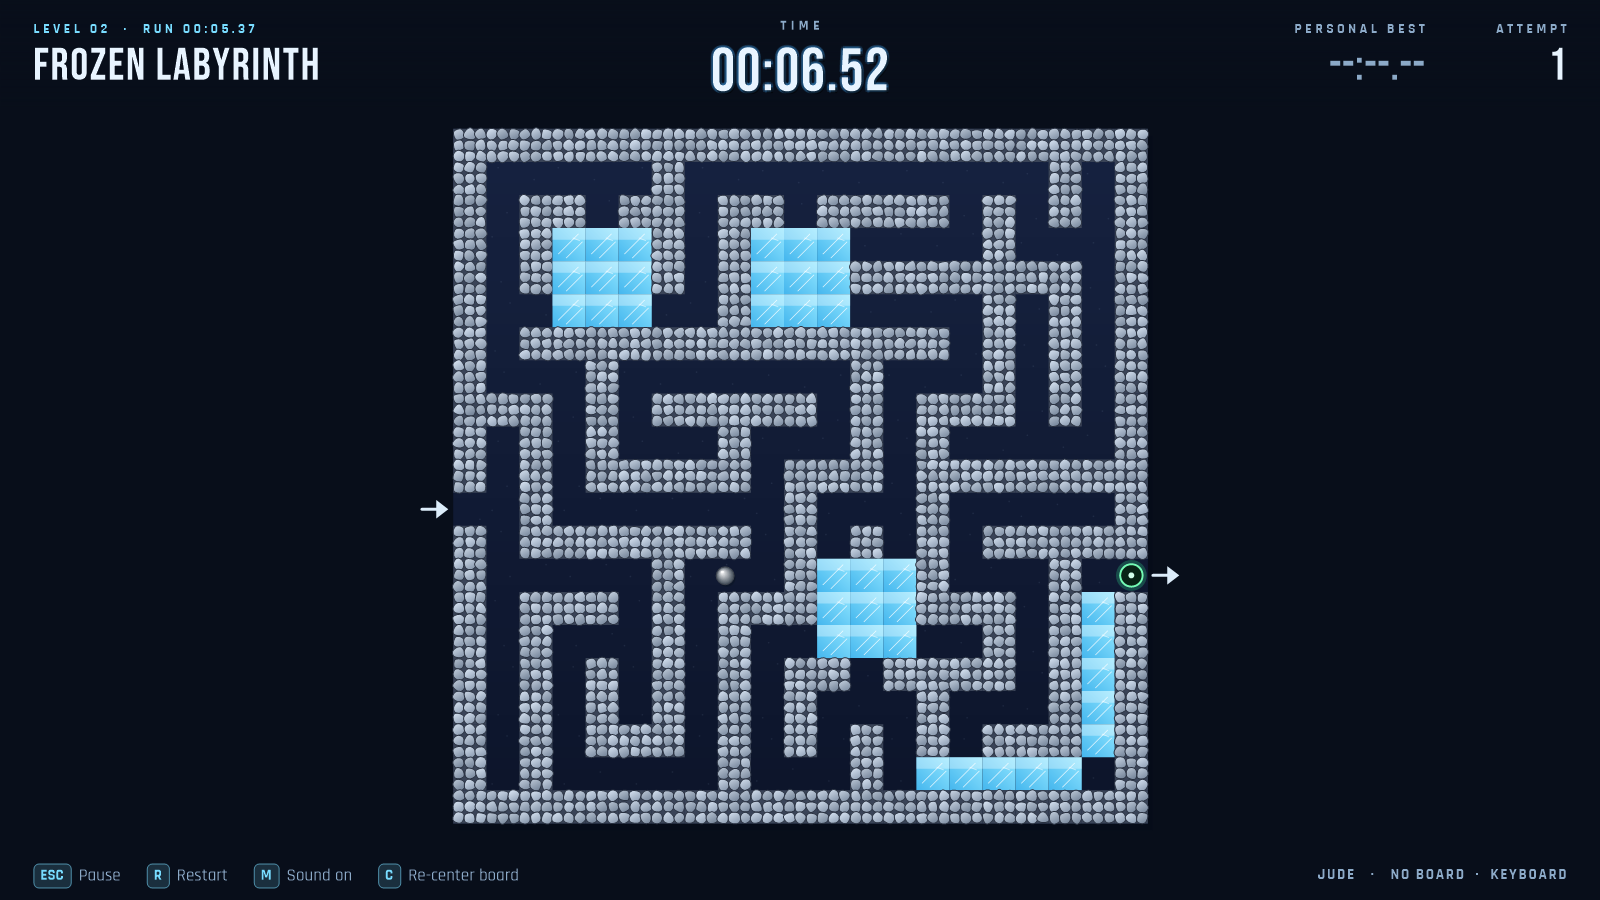
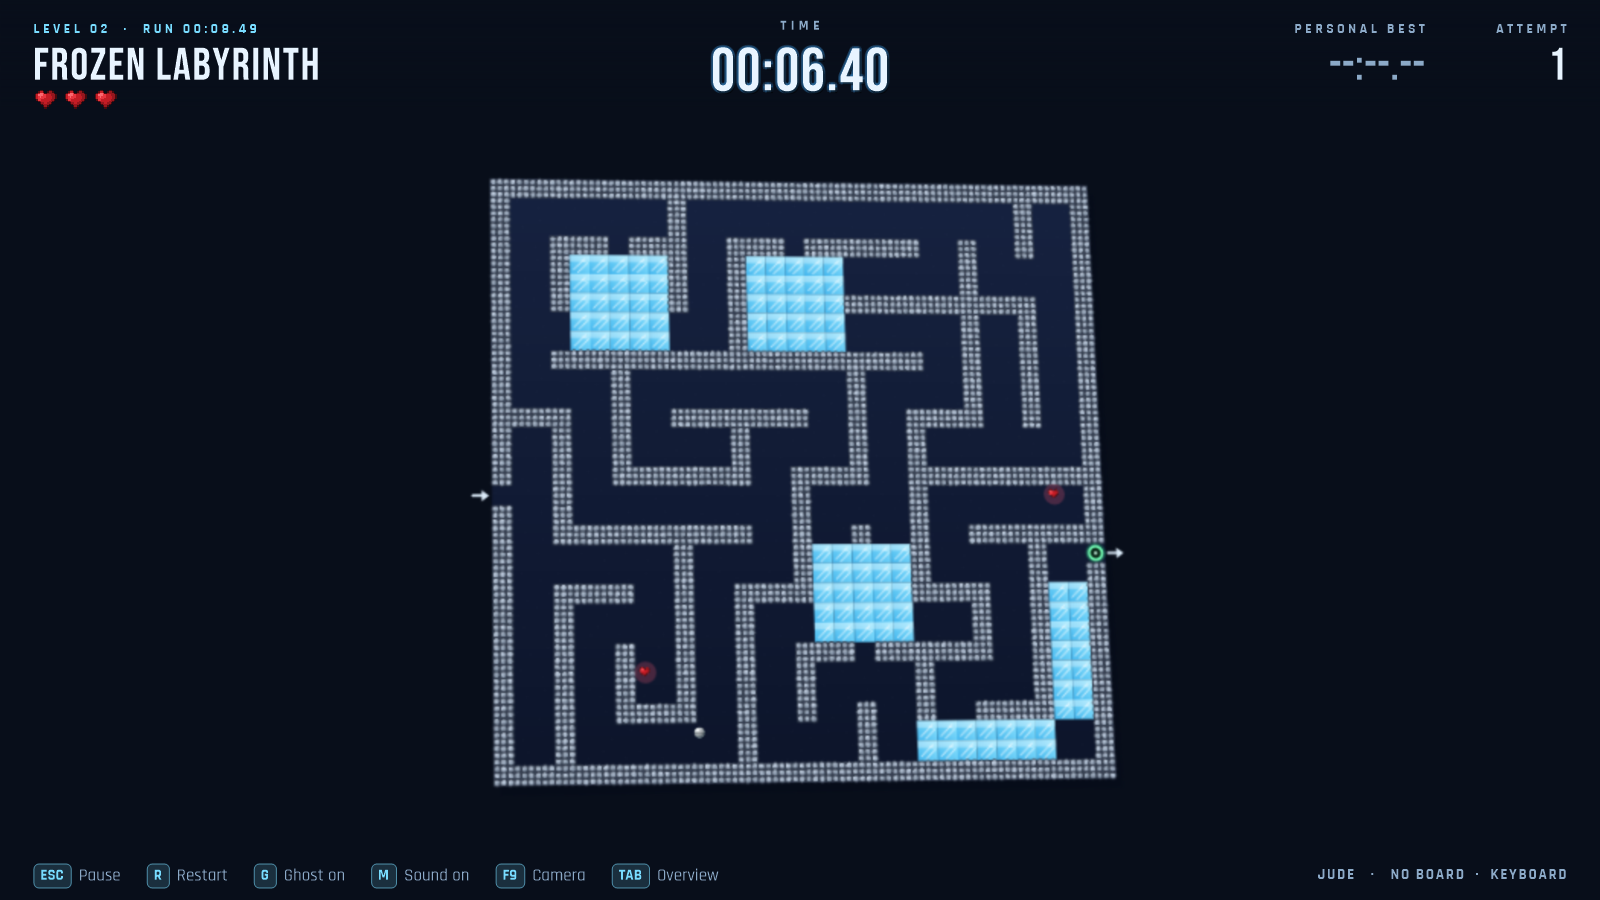
Document barriers, profiles and calibration; refresh screenshots
Also drops the player-select date column when it would reach the board preview.

Changed region(s): [[0.1562, 0.0622, 0.75, 0.9956], [0.0, 0.0933, 0.0938, 0.1244]]

diff --git a/Gravity_Maze_PRD.md b/Gravity_Maze_PRD.md
@@ -57,6 +57,10 @@ Time and stars appear during the transition instead of a blocking results menu.
 The final campaign goal leads to victory. Level Select keeps its results menu
 after the goal-drop animation. Pause and focus loss freeze the transition.
 
+Instant restart: R restarts the level at once (keyboard only); the abandoned attempt is still recorded.
+
+Unplugging the Arduino mid-run pauses the game; play resumes only when the player chooses RESUME.
+
 ------------------------------------------------------------------------
 
 ## 5. Level Design
@@ -95,13 +99,13 @@ Theme: Futuristic arcade
 
 Purpose: - Final challenge
 
-Features: - Large maze - Speed zones - Holes - Timer (~1.4x measured par time)
+Features: - Large maze - Speed zones - Holes - Overdrive barriers (B): neon force fields across the route that shatter only when hit at boost speed (from F strips); a slower hit is a normal wall bounce (¼ heart)
 
-Special tiles: - F = Fast Zone - H = Hole (ball falls and respawns at start; timer keeps running)
+Special tiles: - F = Fast Zone - H = Hole (ball falls and respawns at start; broken barriers stay broken)
 
 Effect: - Increased acceleration
 
-Maze size: - 25x25
+Maze size: - 37x37 in game (25x25 source widened to 2-tile corridors)
 
 ------------------------------------------------------------------------
 
@@ -154,10 +158,14 @@ VB receives: - Tilt X - Tilt Y
 
 ## 9. Data Storage
 
-XML stores: - Player name - Completion time - Attempts - Total score -
-Best records
-
-The project saves performance history only, not game progress.
+XML (format v2) stores: - Player profiles (case-insensitive names, unlocked
+level, ghost setting) - One `<Run>` per attempt with its outcome
+(`cleared`/`out-of-hearts`/`restart`/`quit`), time, wall hits, falls, hearts
+lost, barriers broken, stars and score - The best-run ghost per level -
+Controller calibration (recenter, sensitivity, dead zone, invert X/Y, swap
+axes). Older v1 files are upgraded automatically. Campaign records are written
+only for unbroken Level 1 to end runs. The Who's Playing? screen lists the seven
+most recent profiles.
 
 ------------------------------------------------------------------------
 
@@ -196,6 +204,6 @@ communication
 ## 12. Scope
 
 Must Have: - Arduino control - Physics movement - Collision - Three
-levels - Themes - Speed zones - Timer - XML records
+levels - Themes - Speed zones - Stopwatch timer (no countdown) - XML records
 
-Bonus: - Sound effects - Particles - Checkpoints - Maze editor
+Bonus: - Sound effects - Particles - Checkpoints - Maze editor - Player profiles, ghost replays, calibration screen

diff --git a/SETUP.md b/SETUP.md
@@ -104,11 +104,13 @@ void loop() {
    - Hold a **left** tilt for about 1 second to go back.
 4. **In a level:** tilt in each of the four directions and confirm the ball rolls the same way. Check the diagonals and small, gentle tilts as well. Level 1 is the easiest to test on. You have 3 hearts: each new wall contact costs **1/4 heart**, while a pit costs **one full heart** and respawns the ball. Wall damage grants 1 second of protection from another wall hit; pits still cost health during this protection. Holding against a wall does not drain health continuously. Floating hearts restore one full heart, capped at 3; the HUD shows partially filled hearts.
 5. **Keyboard override:** while the board is connected, hold an arrow key. The keyboard should take control. When you let go, the board takes over again.
-6. **Unplug test:** unplug the USB cable mid-game. The footer should go back to `NO BOARD` and the keyboard should still work. Plug it back in, and within a few seconds it reconnects and the footer shows `BOARD COMx` again.
+6. **Unplug test:** unplug the USB cable mid-game. The game pauses with a banner (it never resumes by itself; choose RESUME), the footer goes back to `NO BOARD` and the keyboard should still work. Plug it back in, and within a few seconds it reconnects and the footer shows `BOARD COMx` again.
 
 ## 5. Troubleshooting
 
-All tuning happens in **`GravityMaze/Form1.vb`**, on the line `board = New ArduinoController()`. Add the settings you need with `With { }`, for example:
+Tuning is done in the game: pick **CALIBRATE** on the title menu to recenter, change sensitivity and dead zone, invert X/Y, swap axes and run **TEST TILT**. Changes are saved to `%AppData%\GravityMaze\records.xml`. RECENTER waits until the board is held level for about a second. **C** still re-centers at any time.
+
+The values in **`GravityMaze/Form1.vb`** are only the defaults. They live on the line `board = New ArduinoController()`. Add the settings you need with `With { }`, for example:
 
 ```vb
 board = New ArduinoController() With {.InvertX = True, .FullTiltDegrees = 25.0F}

diff --git a/Gravity_Maze_AGENTS.md b/Gravity_Maze_AGENTS.md
@@ -72,6 +72,7 @@ Symbols:
 
 1 = Wall 0 = Normal Path S = Start G = Goal I = Ice Zone M = Mud Zone F
 = Fast Zone H = Hole (respawn at start) L = Healing Heart
+B = Overdrive barrier (solid until hit at boost speed, then open for the rest of the attempt)
 
 Dungeon levels add K/Q = the two seals, a/b = matching seal gates,
 E = exit gate requiring both seals, and T = spike field. These symbols require a
